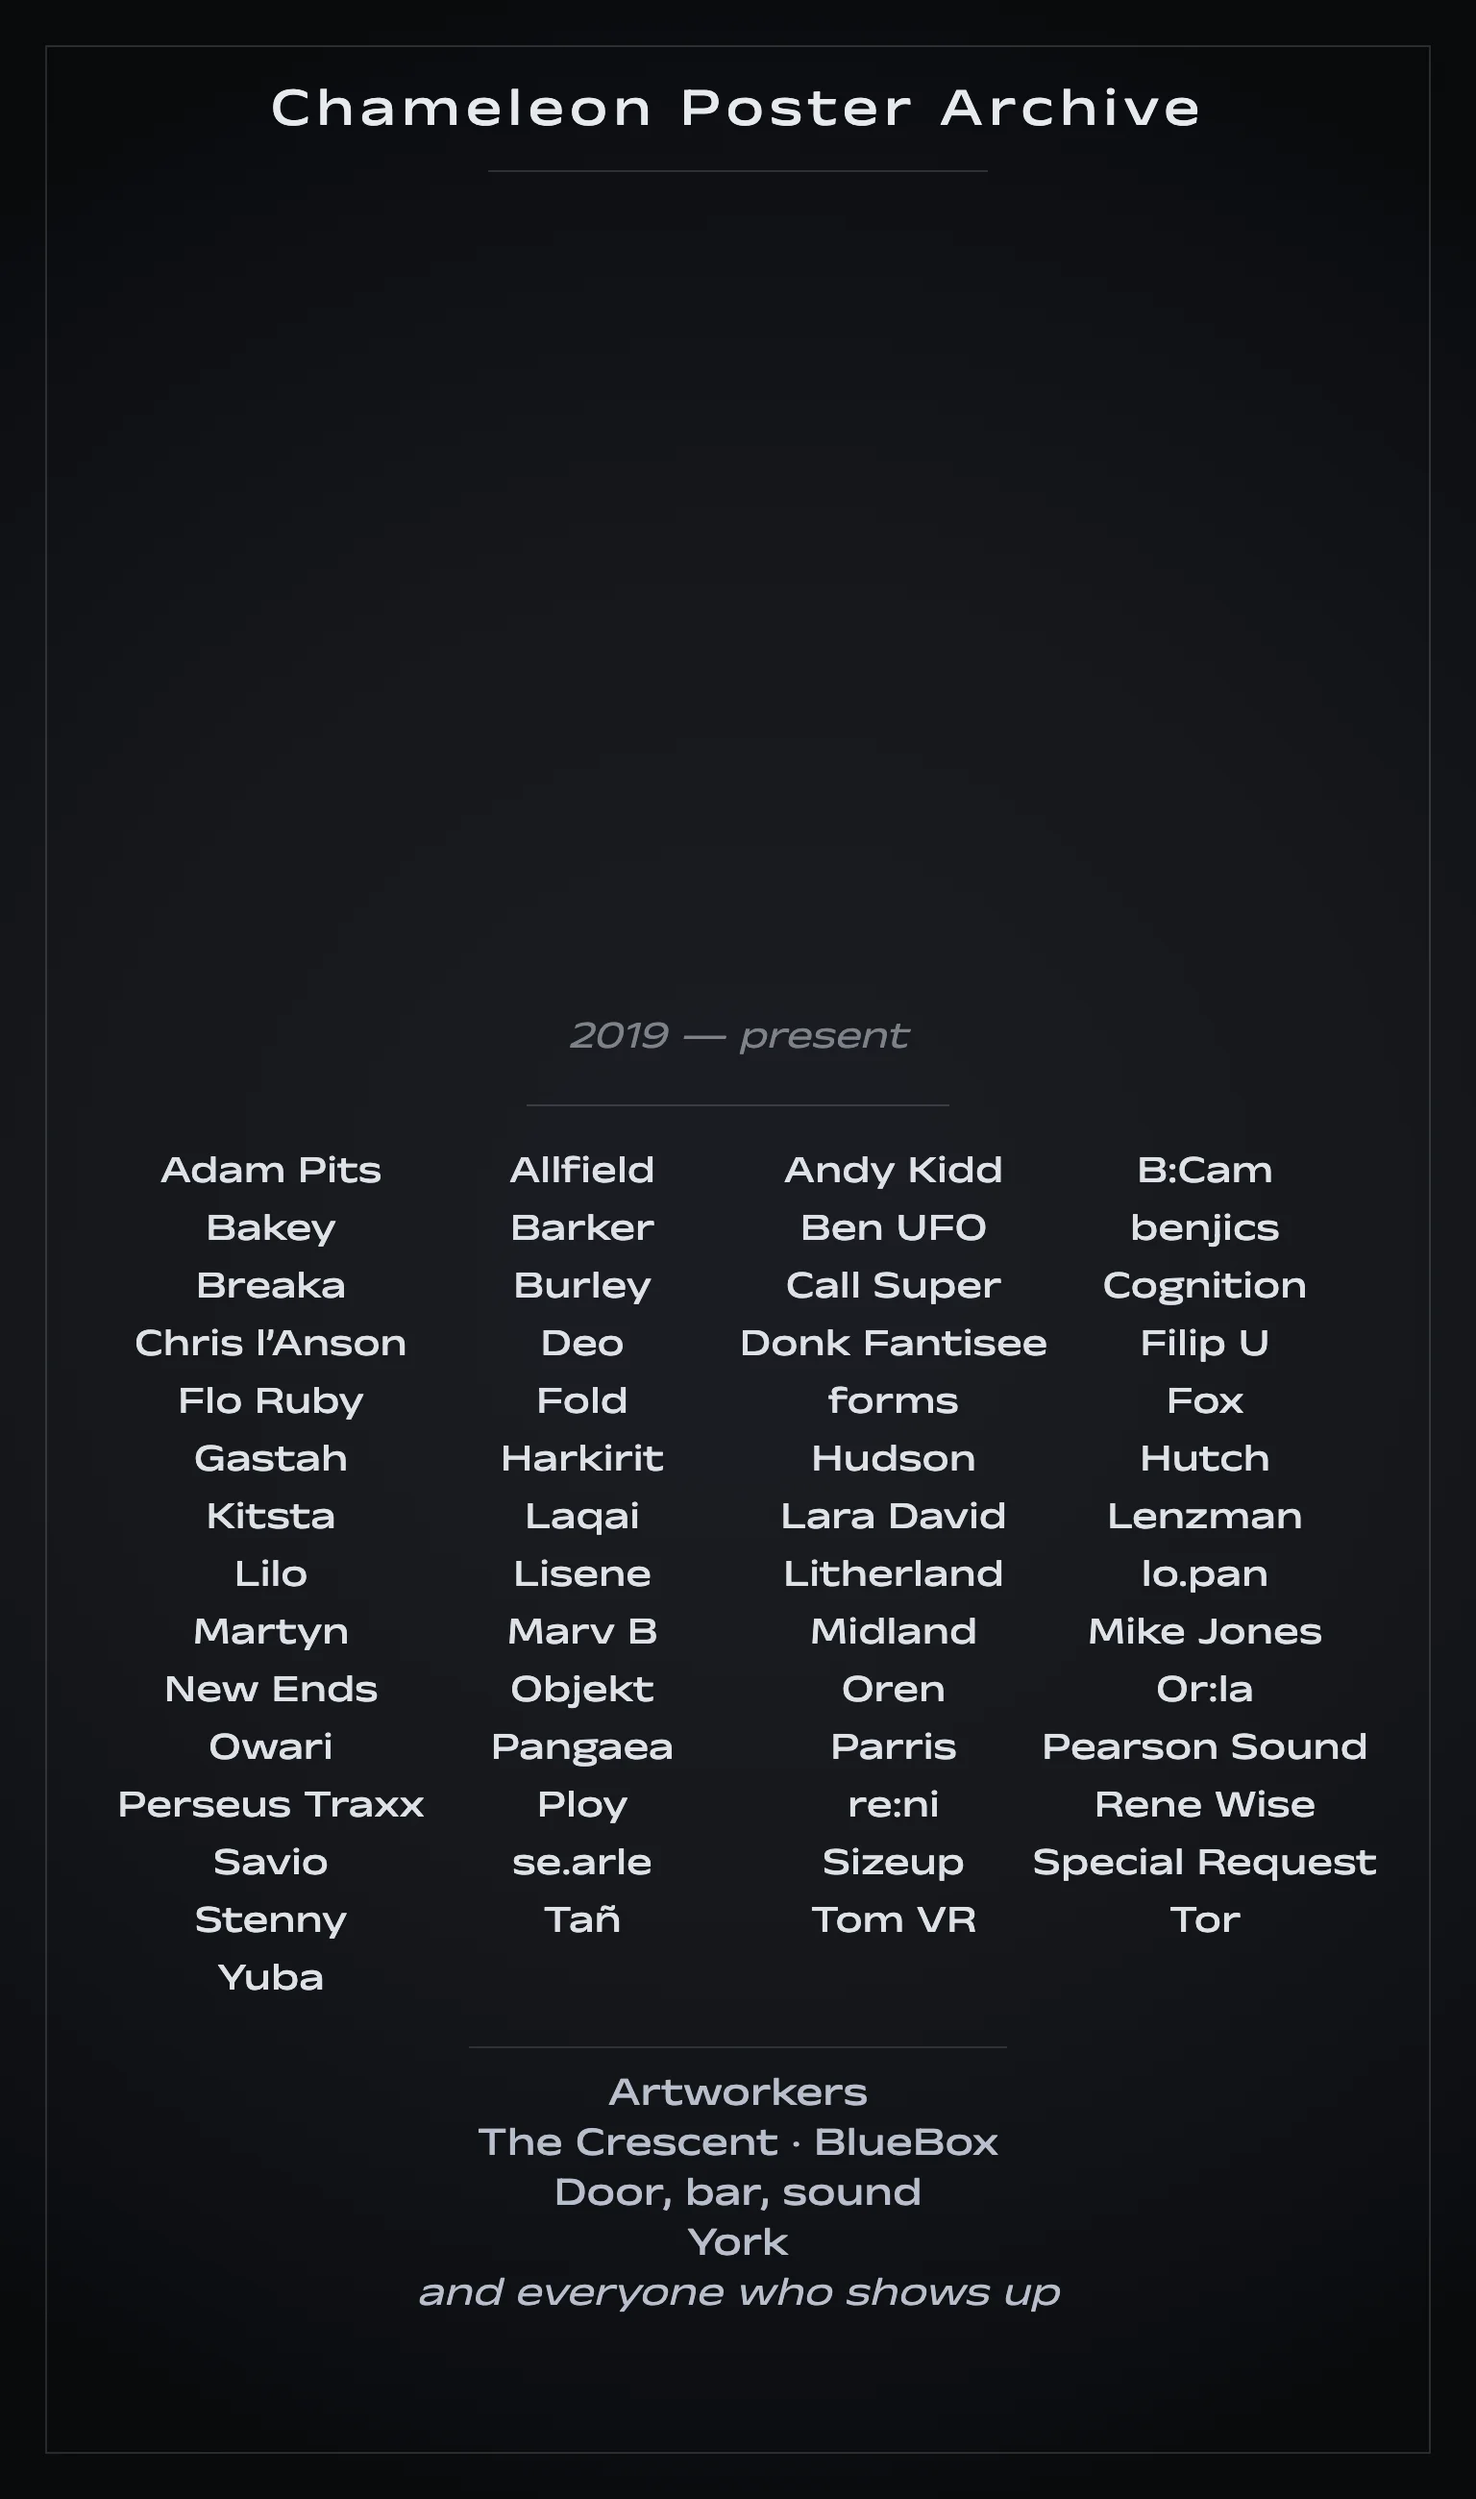
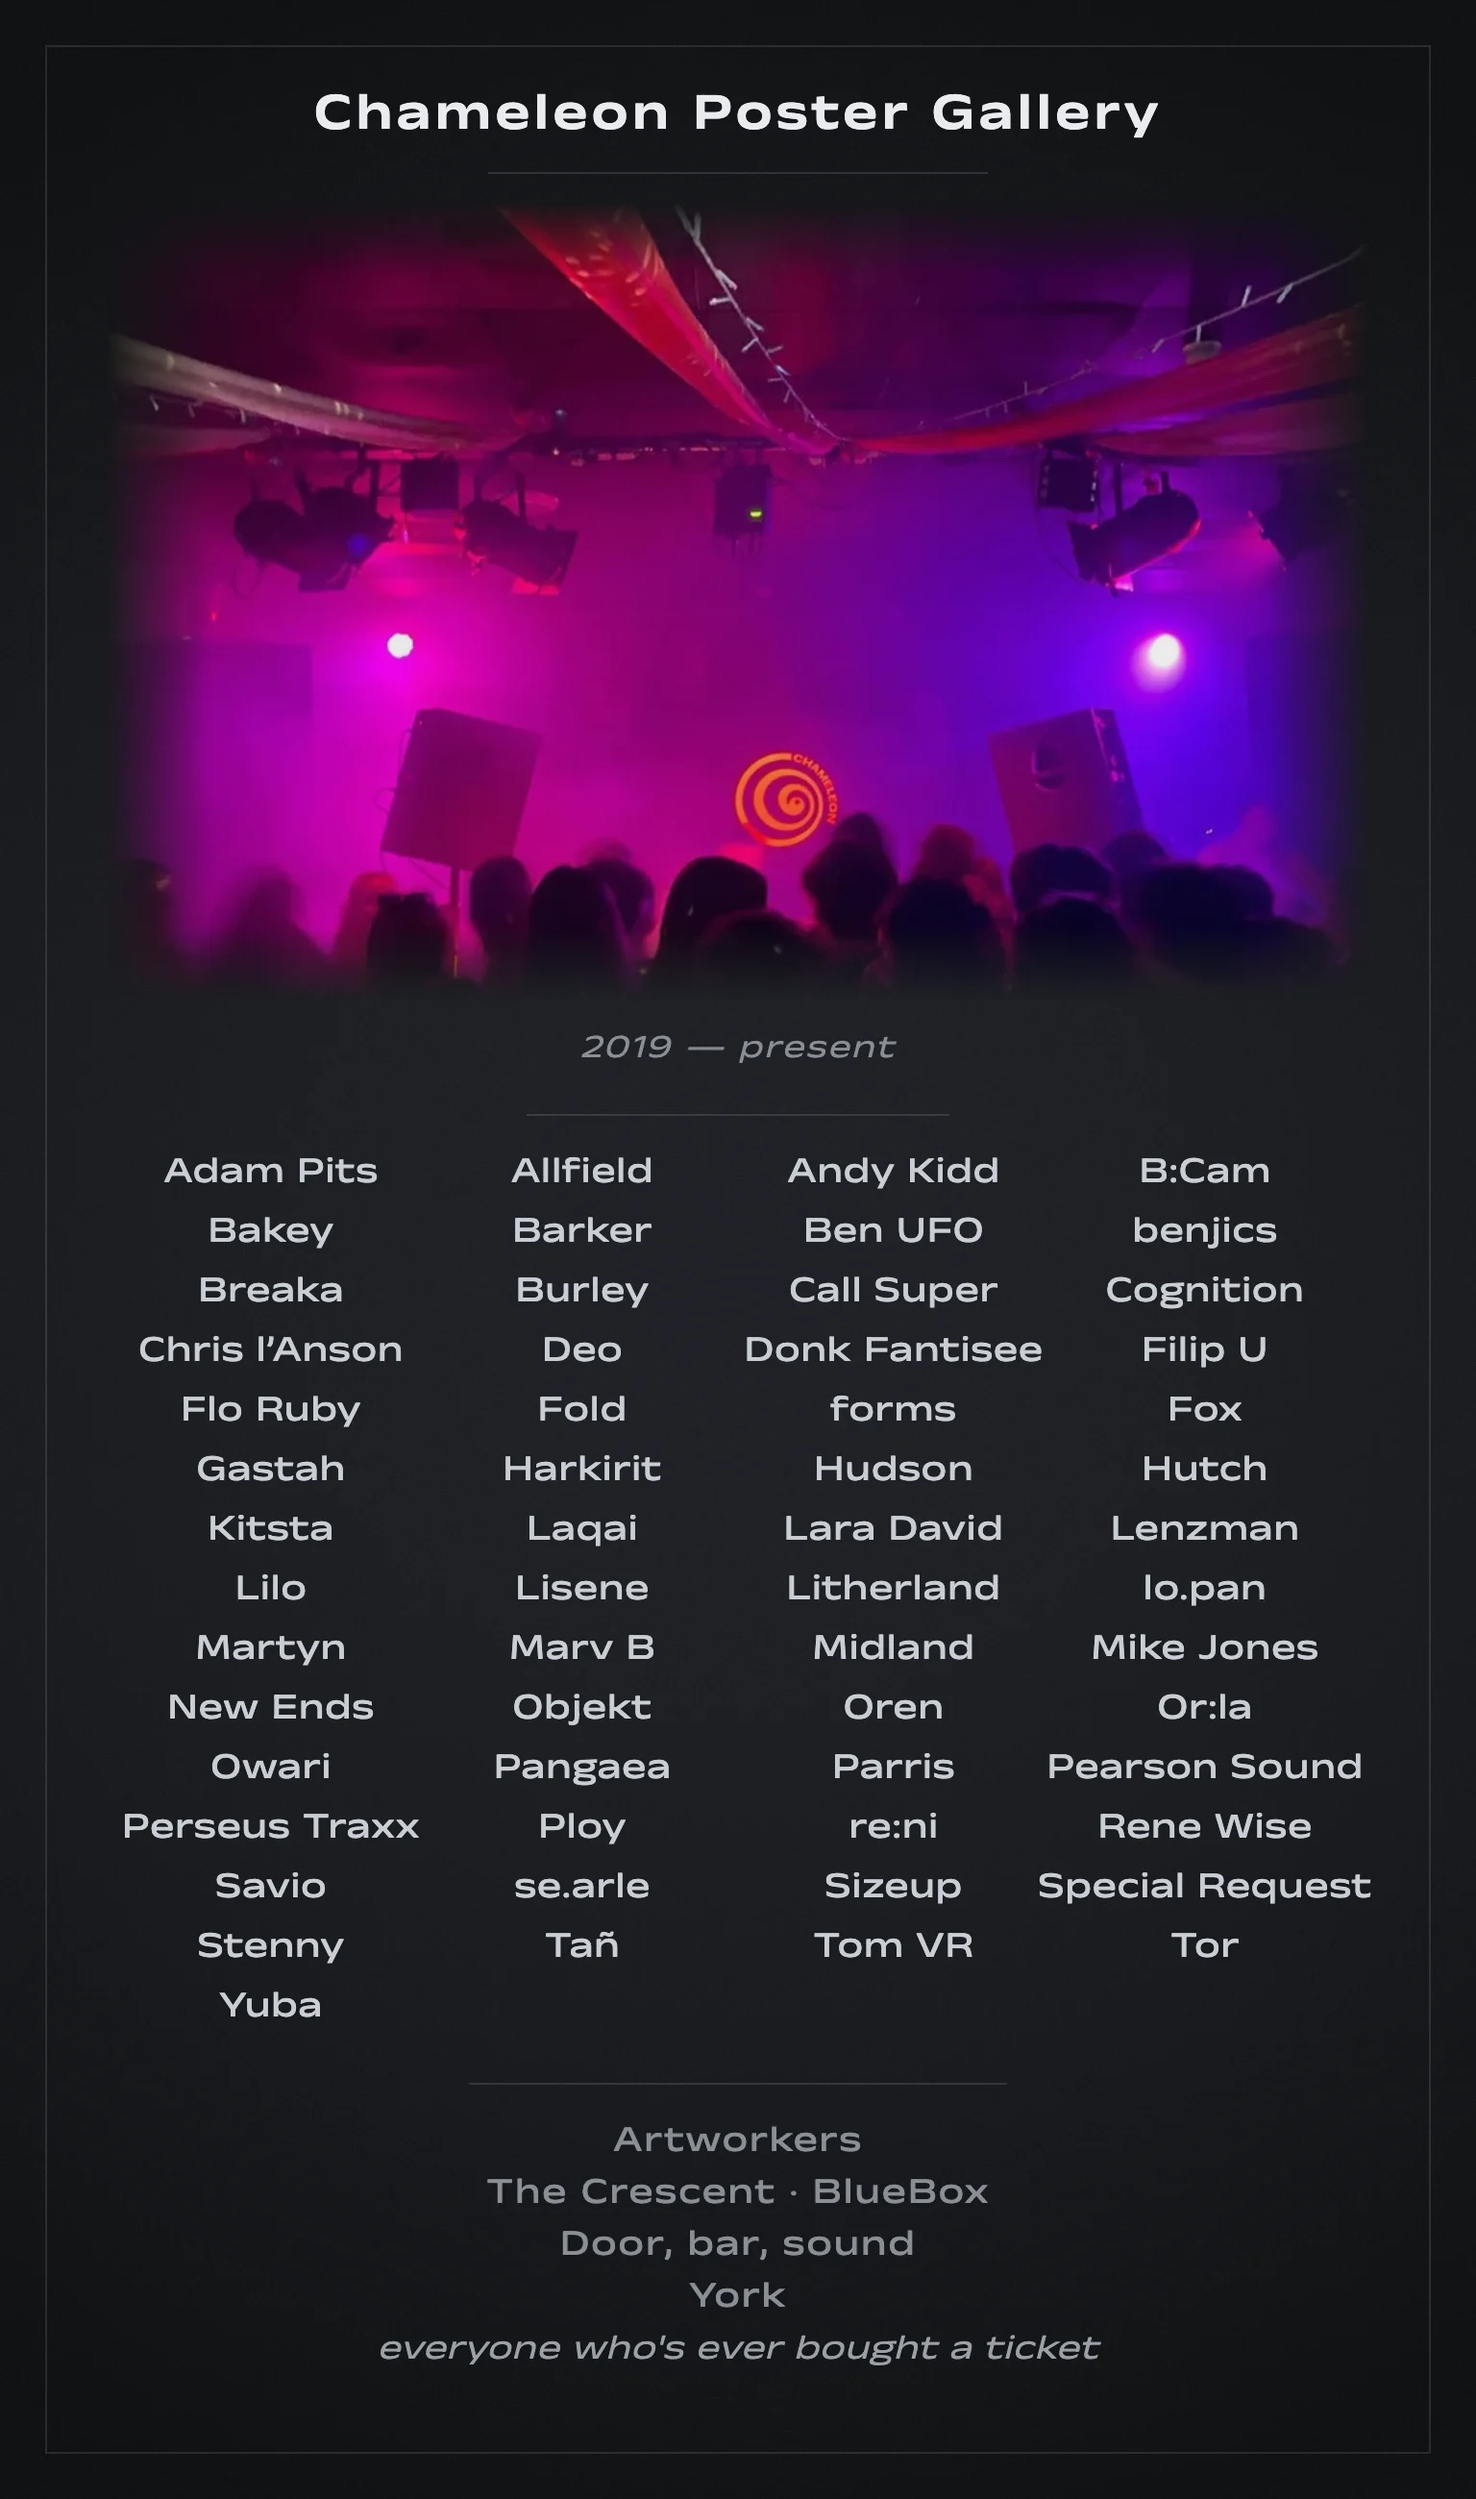
tidy plaque pre-render

diff --git a/CHAMELEON/index.html b/CHAMELEON/index.html
@@ -1276,39 +1276,9 @@ for (let i = 0; i < rest.length; i++) {
   face.position.z = 0.002;
   plaqueGroup.add(face);
 
-  // ---- Event photo overlay — fills the top section edge-to-edge.
-  // Source is 1:1 square (1024×1024). The photo plane is wider than tall, so
-  // the texture's U is shown 0..1 (full width) and V is sampled from a
-  // centred band — centre-crop top + bottom of the source.
-  const PHOTO_TOP_PX    = 210;       // canvas pixel row of photo's top edge (below title band)
-  const PHOTO_BOTTOM_PX = 1040;      // canvas pixel row of photo's bottom edge (above caption at y=1090)
-  const PHOTO_W = w;                                              // full plaque width
-  const PHOTO_H = (PHOTO_BOTTOM_PX - PHOTO_TOP_PX) / PLAQUE_TEX_H * h;       // mesh-space height
-  const photoY  = h * 0.5 - (PHOTO_TOP_PX + PHOTO_BOTTOM_PX) * 0.5 / PLAQUE_TEX_H * h;
-
-  const photoTex = texLoader.load('photos/event.webp', t => {
-    t.colorSpace = THREE.SRGBColorSpace;
-    t.anisotropy = renderer.capabilities.getMaxAnisotropy();
-    const sourceAspect = 1.0;
-    const targetAspect = PHOTO_W / PHOTO_H;
-    if (targetAspect > sourceAspect) {
-      // Target wider than source — crop top + bottom
-      const r = sourceAspect / targetAspect;
-      t.repeat.set(1, r);
-      t.offset.set(0, (1 - r) * 0.5);
-    } else {
-      const r = targetAspect / sourceAspect;
-      t.repeat.set(r, 1);
-      t.offset.set((1 - r) * 0.5, 0);
-    }
-  });
-
-  const photo = new THREE.Mesh(
-    new THREE.PlaneGeometry(PHOTO_W, PHOTO_H),
-    new THREE.MeshBasicMaterial({ map: photoTex, color: 0xdcdcdc, fog: true })
-  );
-  photo.position.set(0, photoY, 0.005);                           // 3 mm in front of the face plane
-  plaqueGroup.add(photo);
+  // Event photo is now baked directly into plaque.webp (with feathered edges),
+  // so no separate 3D overlay plane is needed — saves a draw call, a texture
+  // upload, and the alpha-blend cost of a transparent plane.
 
   // ---- "made by allfield" credit on the back of the plaque ----
   // Transparent canvas so only the text pixels render over the dark backing.
@@ -1343,8 +1313,8 @@ for (let i = 0; i < rest.length; i++) {
   scene.add(plaqueGroup);
 
   // ---- Make the plaque clickable: it glides the camera to a viewing position
-  // facing it, same affordance as the painting cards. Both the face and the
-  // photo overlay get added as ray-hit targets so anywhere on the plaque works.
+  // facing it, same affordance as the painting cards. The face is now the
+  // single ray-hit target (photo is baked into the same texture).
   plaqueGroup.userData.normal = new THREE.Vector3(0, 0, 1);   // faces +Z (camera spawn side)
   const plaqueMeta = {
     title: '',
@@ -1356,8 +1326,7 @@ for (let i = 0; i < rest.length; i++) {
     viewDistance: 3.6,                    // further back than posters (plaque is taller)
   };
   face.userData  = { ...plaqueMeta };
-  photo.userData = { ...plaqueMeta };
-  interactives.push(face, photo);
+  interactives.push(face);
 
   // Tiny warm spotlight on the plaque so it doesn't sit in pure black
   const plaqueLight = new THREE.SpotLight(0xf1ead4, 1.4, 6, Math.PI / 5, 0.7, 1.2);
